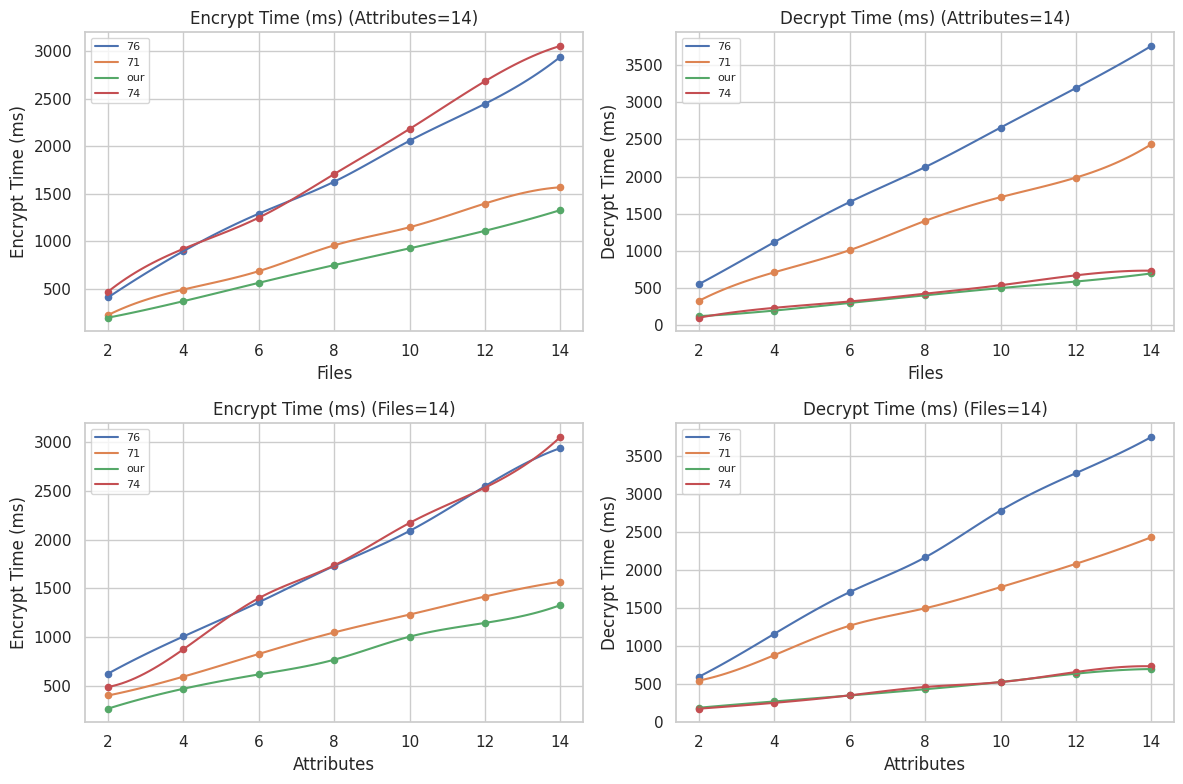
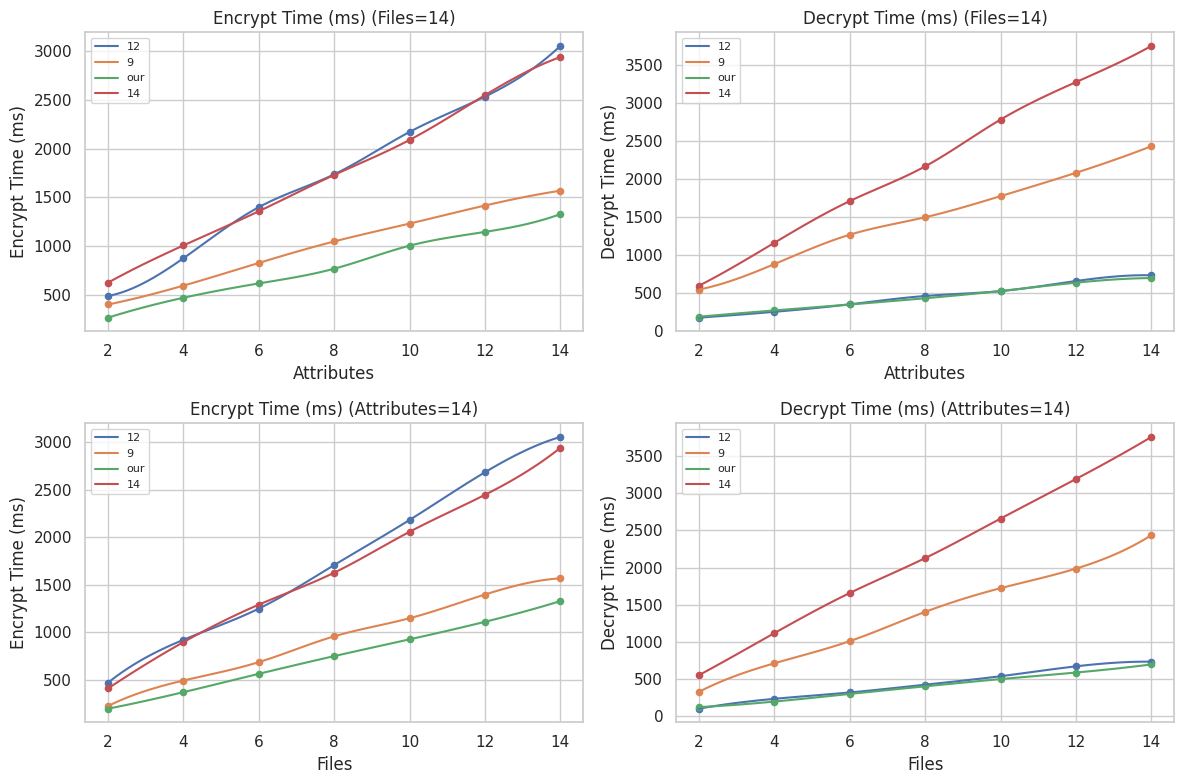
papers number update

diff --git a/compare.py b/compare.py
@@ -8,13 +8,12 @@ from scipy.interpolate import interp1d
 
 # Plot settings
 sns.set(style="whitegrid")
-plt.rcParams['figure.figsize'] = (6, 4)  # Size for individual plots
+plt.rcParams['figure.figsize'] = (12, 8)  # Adjusted for 2x2 subplot layout
 
 # CSV folder path
-csv_folder = "./dataset_file_size"
+csv_folder = "./dataset"
 csv_folder = os.path.expanduser(csv_folder)
 
-# Find all CSV files (exclude :Zone.Identifier)
 csv_files = [f for f in glob.glob(os.path.join(csv_folder, "*.csv")) if ":Zone.Identifier" not in f]
 if not csv_files:
     print("No CSV files found in the folder!")
@@ -62,100 +61,24 @@ print(f"Total rows in combined data: {len(combined_df)}")
 compare_keys = ['Encrypt Time (ms)', 'Decrypt Time (ms)']
 print(f"Comparing keys: {', '.join(compare_keys)}")
 
-# Function to create and save a single plot with all sources
-def create_plot(filtered_df, x_col, key, fixed_col, fixed_value, output_file):
-    plt.figure(figsize=(6, 4))
-    for source in filtered_df['Source'].unique():
-        source_df = filtered_df[filtered_df['Source'] == source]
-        if key not in source_df.columns or source_df[key].isna().all():
-            print(f"Key '{key}' not found or all values are NaN for Source={source}, {fixed_col}={fixed_value}. Skipping source...")
-            continue
-        # Check for duplicates in x_col
-        if source_df[x_col].duplicated().any():
-            print(f"Warning: Duplicate {x_col} found for Source={source}, {fixed_col}={fixed_value}. Aggregating by mean.")
-            source_df = source_df.groupby(x_col).agg({key: 'mean'}).reset_index()
-        
-        x = source_df[x_col].values
-        y = source_df[key].values
-        if len(x) > 1:
-            x_smooth = np.linspace(x.min(), x.max(), 100)
-            try:
-                f = interp1d(x, y, kind='cubic')
-                y_smooth = f(x_smooth)
-                plt.plot(x_smooth, y_smooth, label=f'{source}')
-                plt.scatter(x, y, marker='o', s=20)
-            except ValueError as e:
-                print(f"Error in interpolation for Source={source}, {fixed_col}={fixed_value}: {e}. Falling back to linear plot.")
-                plt.plot(x, y, marker='o', label=f'{source}')
-        else:
-            plt.plot(x, y, marker='o', label=f'{source}')
-    
-    plt.title(f'{key} ({fixed_col}={fixed_value})')
-    plt.xlabel(x_col)
-    plt.ylabel(key)
-    plt.legend(fontsize=8)
-    plt.tight_layout()
-    plt.savefig(output_file, bbox_inches='tight')
-    plt.close()
-    print(f"Saved individual plot: {output_file}")
-
-# Combined plot: 2x2 subplot layout
+# Create a 2x2 subplot layout
 fig, axes = plt.subplots(2, 2, figsize=(12, 8))
-axes = axes.flatten()
+axes = axes.flatten()  # Flatten for easier indexing
+
+# Plot index for subplots
 plot_idx = 0
 
-# Plot Type 1: Fixed Attributes = 14, Variable Files
-attributes_fixed = 14
-filtered_df = combined_df[combined_df['Attributes'] == attributes_fixed]
-if filtered_df.empty:
-    print(f"No data found for fixed Attributes={attributes_fixed}")
-else:
-    filtered_df = filtered_df.sort_values('Files')
-    print(f"Data for fixed Attributes={attributes_fixed}: {len(filtered_df)} rows from sources: {', '.join(filtered_df['Source'].unique())}")
-    for key in compare_keys:
-        if key not in filtered_df.columns or filtered_df[key].isna().all():
-            print(f"Key '{key}' not found or all values are NaN for fixed Attributes={attributes_fixed}. Skipping...")
-            continue
-        ax = axes[plot_idx]
-        for source in filtered_df['Source'].unique():
-            source_df = filtered_df[filtered_df['Source'] == source]
-            if key in source_df.columns and not source_df[key].isna().all():
-                if source_df['Files'].duplicated().any():
-                    print(f"Warning: Duplicate Files found for Source={source}, Attributes={attributes_fixed}. Aggregating by mean.")
-                    source_df = source_df.groupby('Files').agg({key: 'mean'}).reset_index()
-                
-                x = source_df['Files'].values
-                y = source_df[key].values
-                if len(x) > 1:
-                    x_smooth = np.linspace(x.min(), x.max(), 100)
-                    try:
-                        f = interp1d(x, y, kind='cubic')
-                        y_smooth = f(x_smooth)
-                        ax.plot(x_smooth, y_smooth, label=f'{source}')
-                        ax.scatter(x, y, marker='o', s=20)
-                    except ValueError as e:
-                        print(f"Error in interpolation for Source={source}, Attributes={attributes_fixed}: {e}. Falling back to linear plot.")
-                        ax.plot(x, y, marker='o', label=f'{source}')
-                else:
-                    ax.plot(x, y, marker='o', label=f'{source}')
-        
-        ax.set_title(f'{key} (Attributes={attributes_fixed})')
-        ax.set_xlabel('Files')
-        ax.set_ylabel(key)
-        ax.legend(fontsize=8)
-        # Save individual plot with all sources
-        output_file = os.path.join(csv_folder, f'plot_attributes_{attributes_fixed}_{key.replace(" ", "_").lower()}.png')
-        create_plot(filtered_df, 'Files', key, 'Attributes', attributes_fixed, output_file)
-        plot_idx += 1
-
-# Plot Type 2: Fixed Files = 14, Variable Attributes
+# Plot Type 1: Fixed Files = 14, Variable Attributes
 files_fixed = 14
 filtered_df = combined_df[combined_df['Files'] == files_fixed]
 if filtered_df.empty:
     print(f"No data found for fixed Files={files_fixed}")
 else:
+    # Sort by Attributes
     filtered_df = filtered_df.sort_values('Attributes')
     print(f"Data for fixed Files={files_fixed}: {len(filtered_df)} rows from sources: {', '.join(filtered_df['Source'].unique())}")
+
+    # Plot for each key (Encrypt and Decrypt)
     for key in compare_keys:
         if key not in filtered_df.columns or filtered_df[key].isna().all():
             print(f"Key '{key}' not found or all values are NaN for fixed Files={files_fixed}. Skipping...")
@@ -164,12 +87,14 @@ else:
         for source in filtered_df['Source'].unique():
             source_df = filtered_df[filtered_df['Source'] == source]
             if key in source_df.columns and not source_df[key].isna().all():
+                # Check for duplicate Attributes
                 if source_df['Attributes'].duplicated().any():
                     print(f"Warning: Duplicate Attributes found for Source={source}, Files={files_fixed}. Aggregating by mean.")
                     source_df = source_df.groupby('Attributes').agg({key: 'mean'}).reset_index()
                 
                 x = source_df['Attributes'].values
                 y = source_df[key].values
+                # Interpolation for smoothing
                 if len(x) > 1:
                     x_smooth = np.linspace(x.min(), x.max(), 100)
                     try:
@@ -182,18 +107,63 @@ else:
                         ax.plot(x, y, marker='o', label=f'{source}')
                 else:
                     ax.plot(x, y, marker='o', label=f'{source}')
-        
+
         ax.set_title(f'{key} (Files={files_fixed})')
         ax.set_xlabel('Attributes')
         ax.set_ylabel(key)
         ax.legend(fontsize=8)
-        # Save individual plot with all sources
-        output_file = os.path.join(csv_folder, f'plot_files_{files_fixed}_{key.replace(" ", "_").lower()}.png')
-        create_plot(filtered_df, 'Attributes', key, 'Files', files_fixed, output_file)
         plot_idx += 1
 
-# Save combined plot
+# Plot Type 2: Fixed Attributes = 14, Variable Files
+attributes_fixed = 14
+filtered_df = combined_df[combined_df['Attributes'] == attributes_fixed]
+if filtered_df.empty:
+    print(f"No data found for fixed Attributes={attributes_fixed}")
+else:
+    # Sort by Files
+    filtered_df = filtered_df.sort_values('Files')
+    print(f"Data for fixed Attributes={attributes_fixed}: {len(filtered_df)} rows from sources: {', '.join(filtered_df['Source'].unique())}")
+
+    # Plot for each key (Encrypt and Decrypt)
+    for key in compare_keys:
+        if key not in filtered_df.columns or filtered_df[key].isna().all():
+            print(f"Key '{key}' not found or all values are NaN for fixed Attributes={attributes_fixed}. Skipping...")
+            continue
+        ax = axes[plot_idx]
+        for source in filtered_df['Source'].unique():
+            source_df = filtered_df[filtered_df['Source'] == source]
+            if key in source_df.columns and not source_df[key].isna().all():
+                # Check for duplicate Files
+                if source_df['Files'].duplicated().any():
+                    print(f"Warning: Duplicate Files found for Source={source}, Attributes={attributes_fixed}. Aggregating by mean.")
+                    source_df = source_df.groupby('Files').agg({key: 'mean'}).reset_index()
+                
+                x = source_df['Files'].values
+                y = source_df[key].values
+                # Interpolation for smoothing
+                if len(x) > 1:
+                    x_smooth = np.linspace(x.min(), x.max(), 100)
+                    try:
+                        f = interp1d(x, y, kind='cubic')
+                        y_smooth = f(x_smooth)
+                        ax.plot(x_smooth, y_smooth, label=f'{source}')
+                        ax.scatter(x, y, marker='o', s=20)
+                    except ValueError as e:
+                        print(f"Error in interpolation for Source={source}, Attributes={attributes_fixed}: {e}. Falling back to linear plot.")
+                        ax.plot(x, y, marker='o', label=f'{source}')
+                else:
+                    ax.plot(x, y, marker='o', label=f'{source}')
+
+        ax.set_title(f'{key} (Attributes={attributes_fixed})')
+        ax.set_xlabel('Files')
+        ax.set_ylabel(key)
+        ax.legend(fontsize=8)
+        plot_idx += 1
+
+# Adjust layout to prevent overlap
 plt.tight_layout()
+
+# Save the combined plot
 output_file = os.path.join(csv_folder, 'combined_four_plots.png')
 plt.savefig(output_file, bbox_inches='tight')
 plt.close()

diff --git a/compare_file_size.py b/compare_file_size.py
@@ -18,7 +18,6 @@ csv_folder = os.path.expanduser(csv_folder)
 if not os.path.exists(csv_folder):
     os.makedirs(csv_folder)
 
-# Find all CSV files (exclude :Zone.Identifier)
 csv_files = [f for f in glob.glob(os.path.join(csv_folder, "*.csv")) if ":Zone.Identifier" not in f]
 if not csv_files:
     print("No CSV files found in the folder!")
